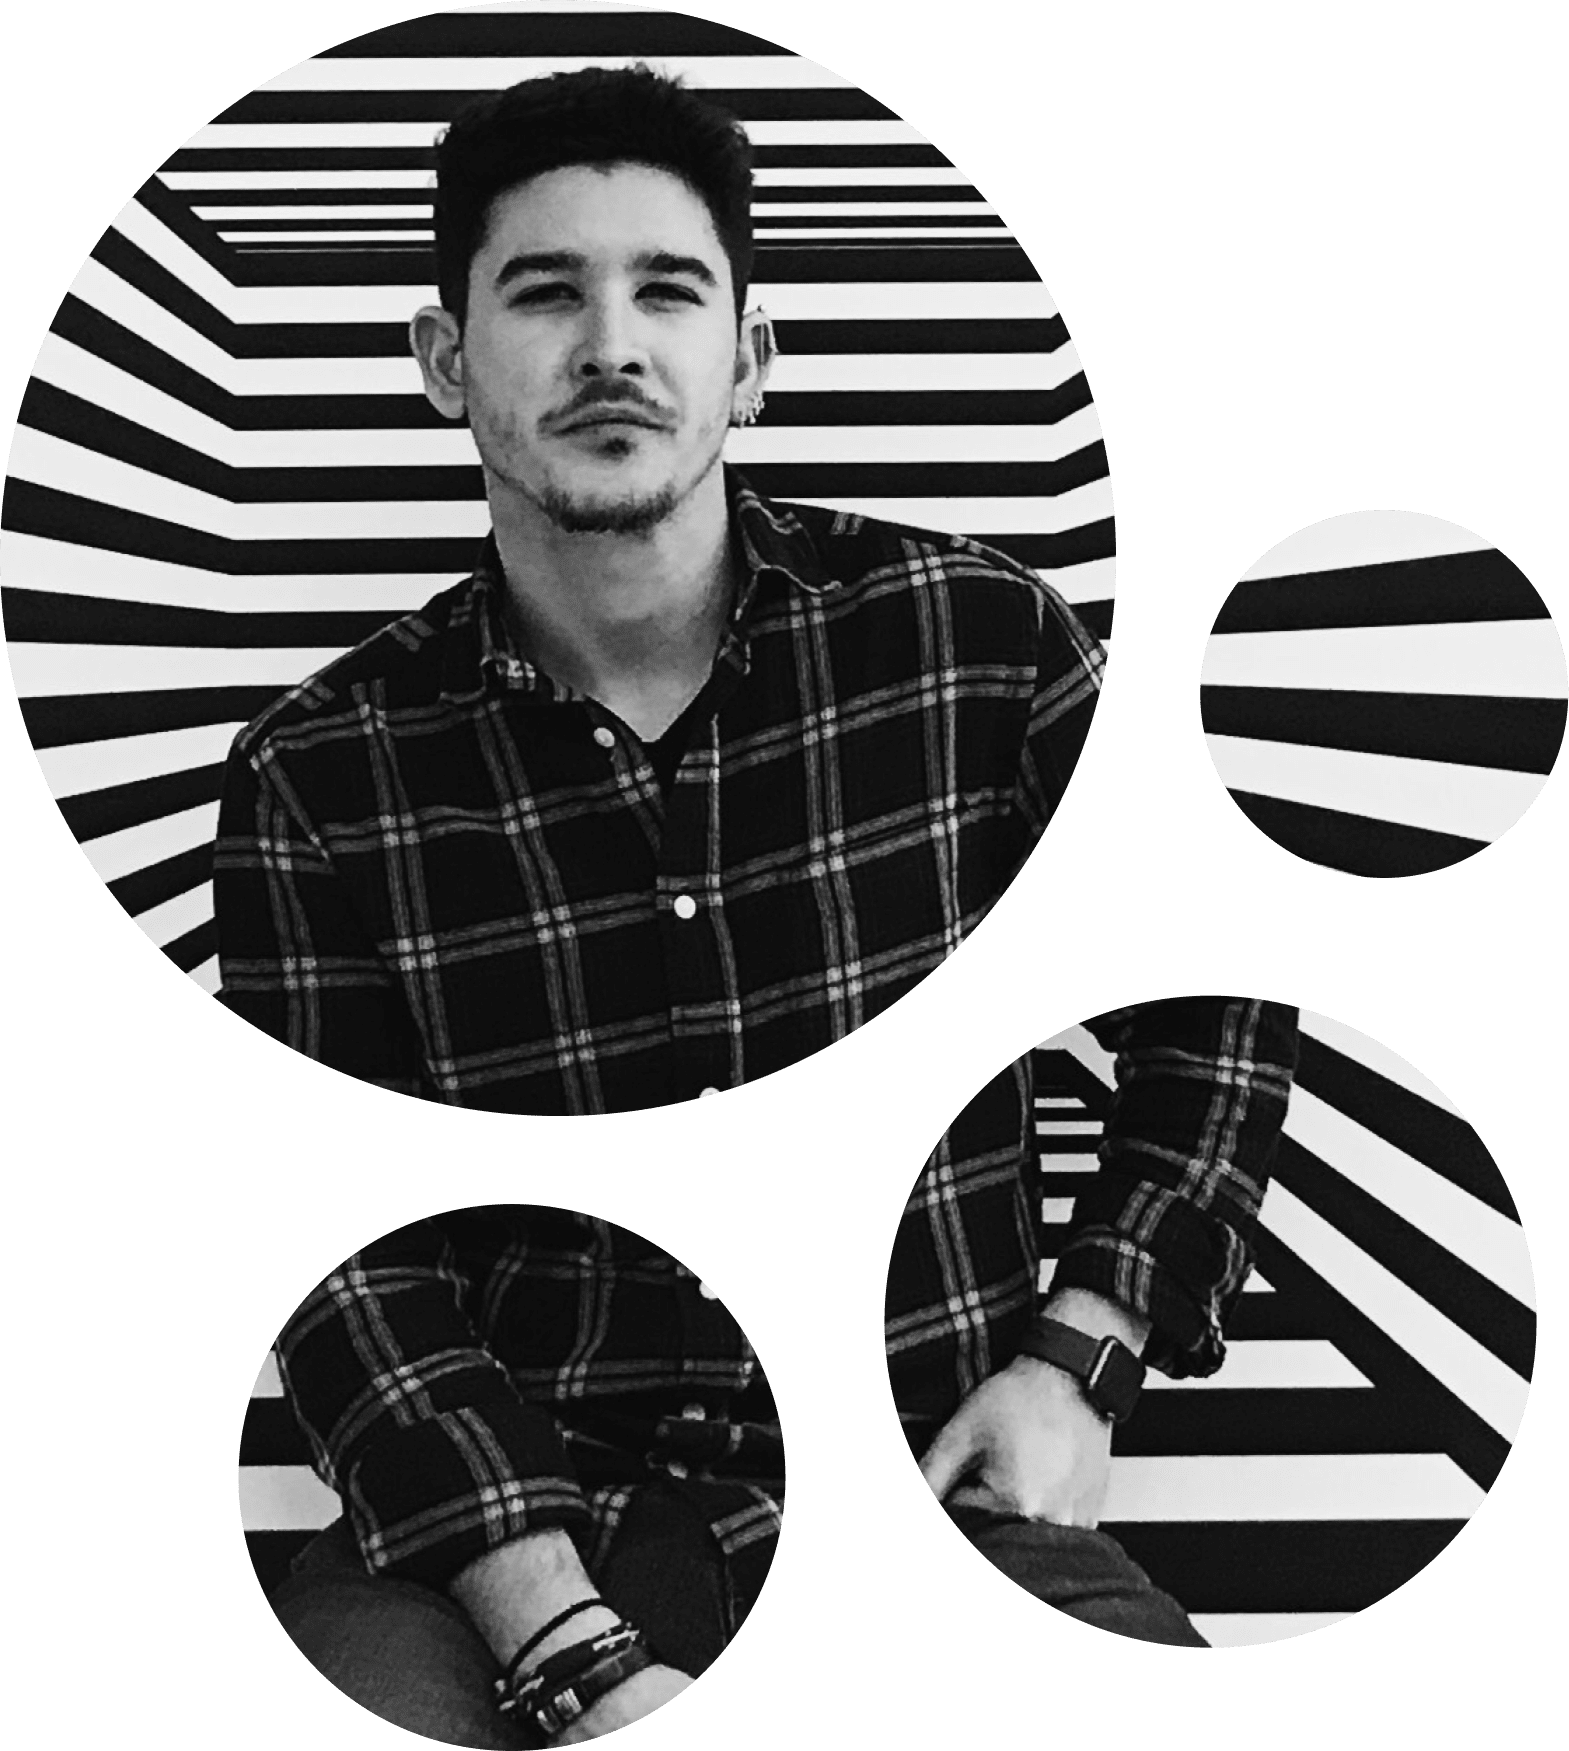
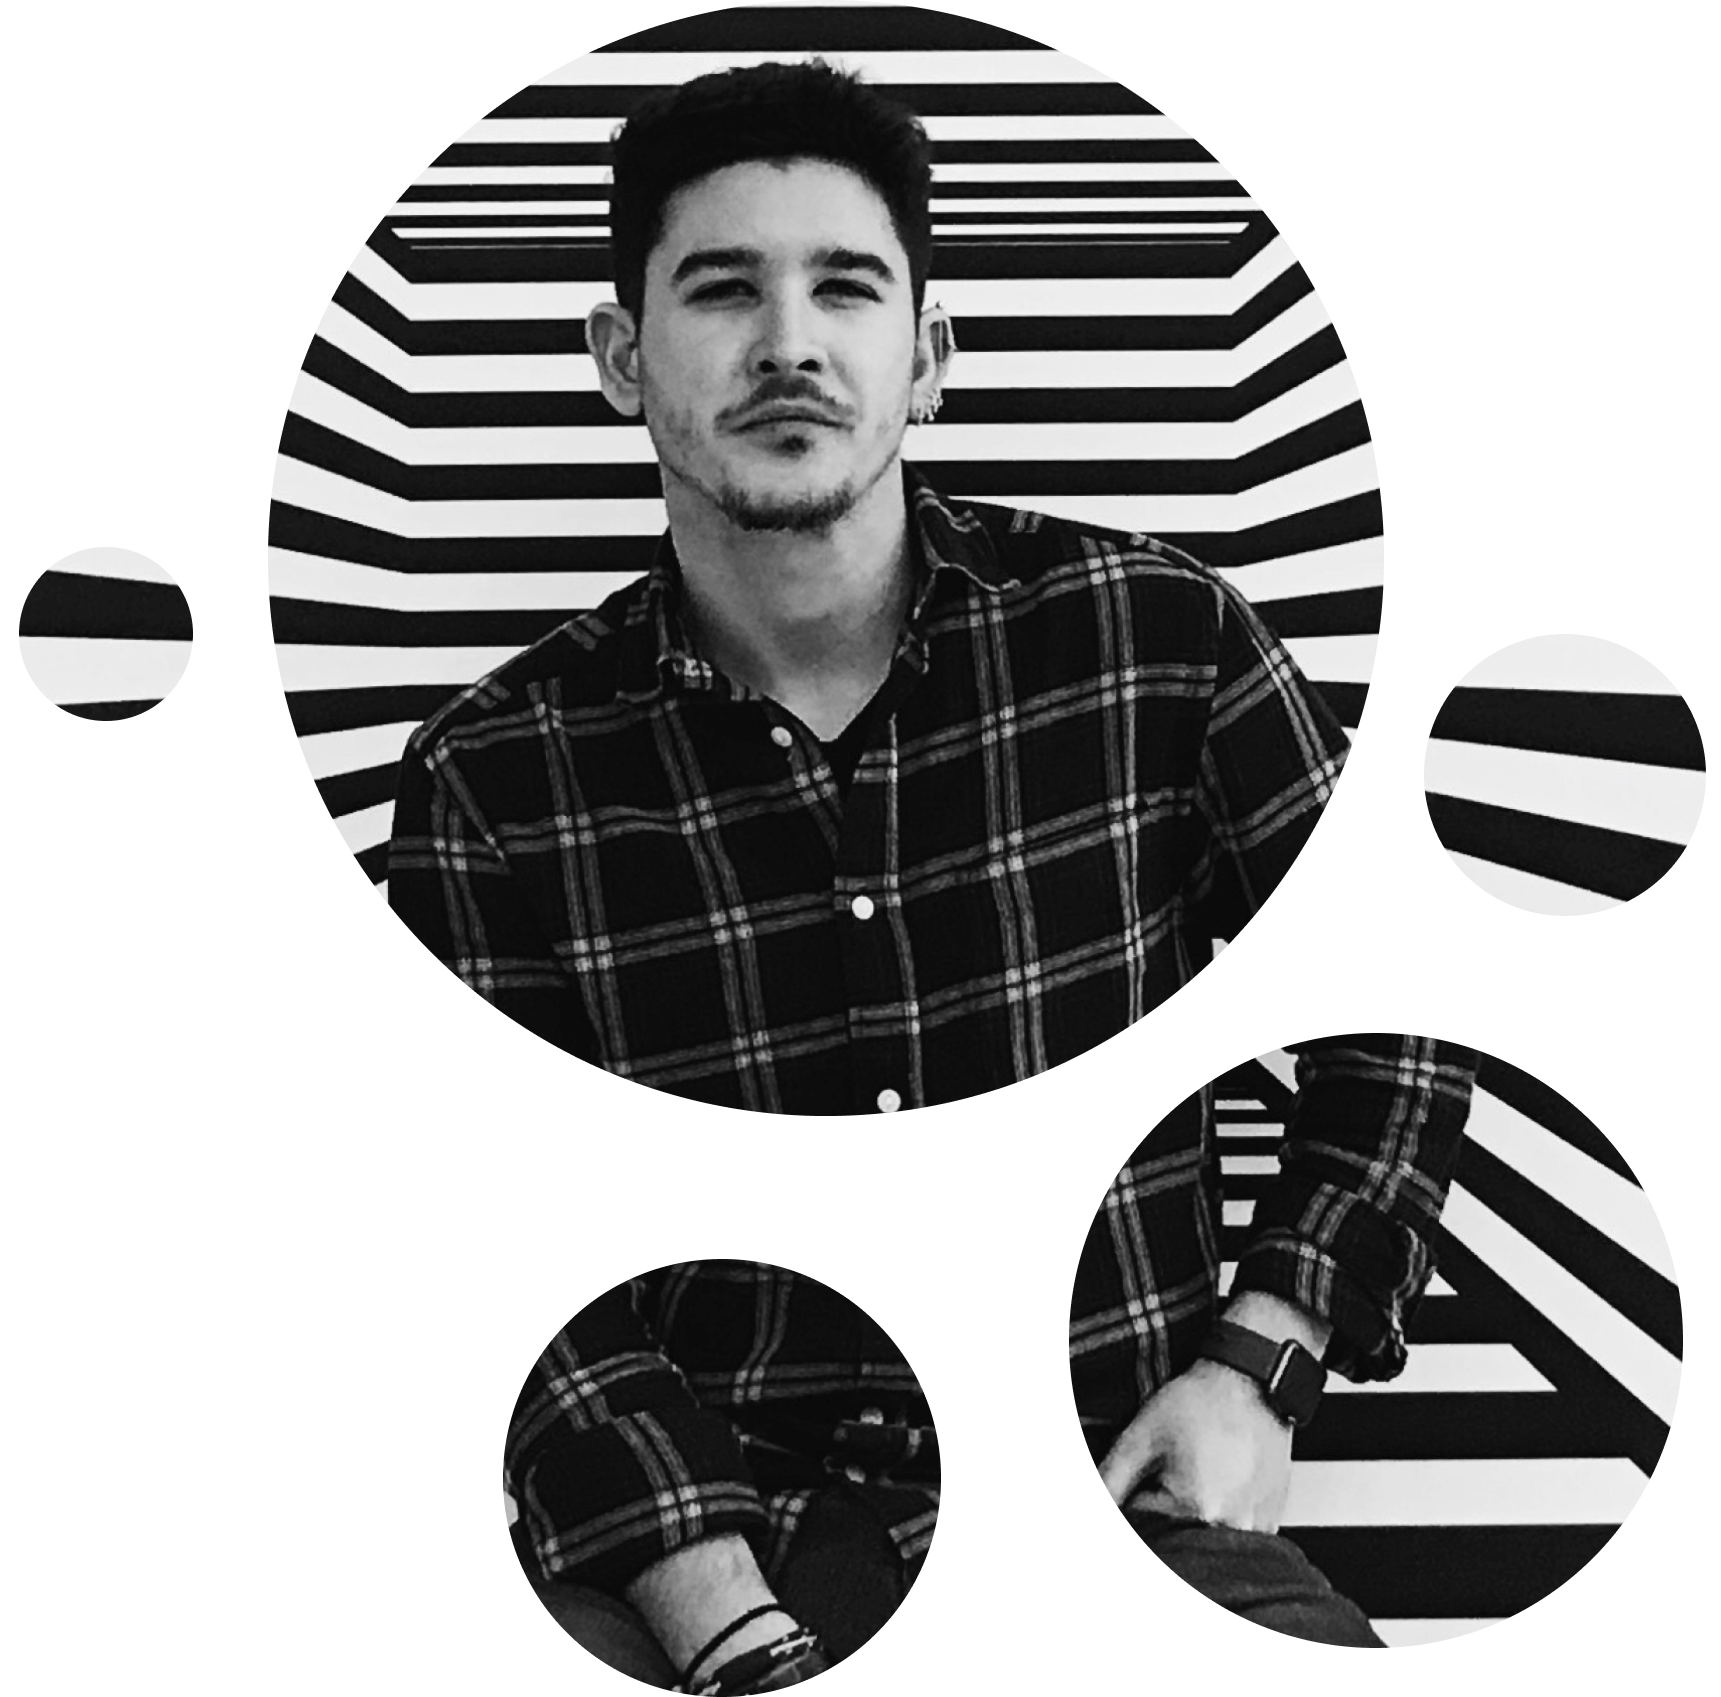
Updated mainHeader picture

diff --git a/src/assets/scss/base/_core.scss b/src/assets/scss/base/_core.scss
@@ -2,7 +2,6 @@
 Core
 */
 
-
 // DOM
 
 *,
@@ -14,6 +13,7 @@ Core
 html {
   scroll-behavior: smooth;
   overflow-x: hidden;
+  line-height: 1.3;
 }
 
 body {
@@ -87,7 +87,6 @@ body {
         transition: .2s ease-in !important;
         padding: .5rem;
         color: map-get($color, gray);
-        font-weight: bold;
 
         &::after {
           content: none;
@@ -106,32 +105,27 @@ body {
   display: flex;
   justify-content: center;
   align-items: center;
-  height: calc(100vh - 152px);
-  margin: 0 .5rem;
+  height: 70vh;
+  margin: 0 1rem;
 
   &__profile {
     position: relative;
+    background-image: url("/assets/img/m-profile-pic.png");
+    background-size: contain;
+    background-repeat: no-repeat;
+    background-position: center;
+    height: 100%;
+    width: 100%;
 
-    img {
-      max-width: 100%;
-      height: auto;
-      border-radius: 50%;
-    }
-
-    &::before,
-    &::after {
+    &::before {
       content: "";
       position: absolute;
       height: 100%;
-      background-size: 100%;
+      width: 100%;
+      background-image: url(/assets/img/profile-shapes-alt.svg);
+      background-size: contain;
       background-repeat: no-repeat;
-    }
-
-    &::after {
-      background-image: url(/assets/img/profile-circles-alt.svg);
-      top: -4rem;
-      right: -2rem;
-      width: 77%;
+      background-position: center center;
       animation: spawn 2s cubic-bezier(.165,.84,.44,1);
     }
 
@@ -151,7 +145,7 @@ body {
   &__heading {
     position: absolute;
     left: 0;
-    top: 50%;
+    bottom: 0;
   }
 }
 
@@ -212,35 +206,51 @@ svg {
   fill: none;
 }
 
-// Components
-.flow {
-  width: 33.33%;
-  display: inline-block;
-  &__box {
-    width: 20vw;
-    height: 40vh;
-    border: 1px dashed rgba(255,255,255,.5);
-    border-radius: 50%;
-    animation: rotate 20s linear infinite;
-
-    &:hover {
-      border-color: map-get($color, primary);
-    }
-  }
-
-  @keyframes rotate {
-    from {
-      transform: rotate(0);
-    }
-
-    to {
-      transform: rotate(360deg);
-    }
+// Breakpoints
+@media screen and (min-width: 1025px) {
+  .mainHeader {
+    width: 60%;
   }
 }
 
-// Breakpoints
 @media screen and (min-width: 769px) {
+
+  body {
+    margin: 2rem;
+
+    &::-webkit-scrollbar {
+      width: 4px;
+    }
+
+    &::-webkit-scrollbar-track {
+      background: none;
+    }
+
+    &::-webkit-scrollbar-thumb {
+      background-color: map-get($color, primary);
+    }
+  }
+
+  .mainHeader {
+    align-items: center;
+    margin: 1rem auto;
+    height: calc(100vh - 100px);
+
+    &__profile {
+      background-image: url("/assets/img/profile-pic.png");
+
+      &::before {
+        background-image: url(/assets/img/profile-shapes.svg);
+        top: -3rem;
+      }
+    }
+
+    &__heading {
+      top: 40%;
+      bottom: unset;
+    }
+  }
+
   .mainFooter {
     &__info {
       width: 80%;
@@ -255,7 +265,7 @@ svg {
           pointer-events: none;
           transition: .4s cubic-bezier(.77,0,.175,1);
         }
-  
+
         &:hover {
           &::before {
             transform: scale(.8);
@@ -263,60 +273,6 @@ svg {
           }
         }
       }
-    }
-  }
-}
-
-@media screen and (min-width: 769px) {
-
-  .mainHeader {
-    width: 60%;
-    align-items: center;
-    margin: 1rem auto;
-    height: unset;
-  
-    &__profile {
-  
-      img {
-        max-width: unset;
-        height: 90vh;
-        border-radius: 0;
-      }
-
-      &::before {
-        background-image: url(/assets/img/profile-circles.svg);
-        top: 9rem;
-        left: 0;
-        width: 100%;
-        animation: spawn 1s cubic-bezier(.165,.84,.44,1);
-      }
-
-      &::after {
-        right: -7rem;
-      }
-    }
-  
-    &__heading {
-      top: unset;
-    }
-  }
-
-}
-
-@media screen and (min-width: 769px) {
-  body {
-    margin: 2rem;
-
-    &::-webkit-scrollbar {
-      width: 4px;
-    }
-  
-    &::-webkit-scrollbar-track {
-      background: none;
-    }
-  
-    &::-webkit-scrollbar-thumb {
-      background-color: map-get($color, primary);
     }
   }
 }
